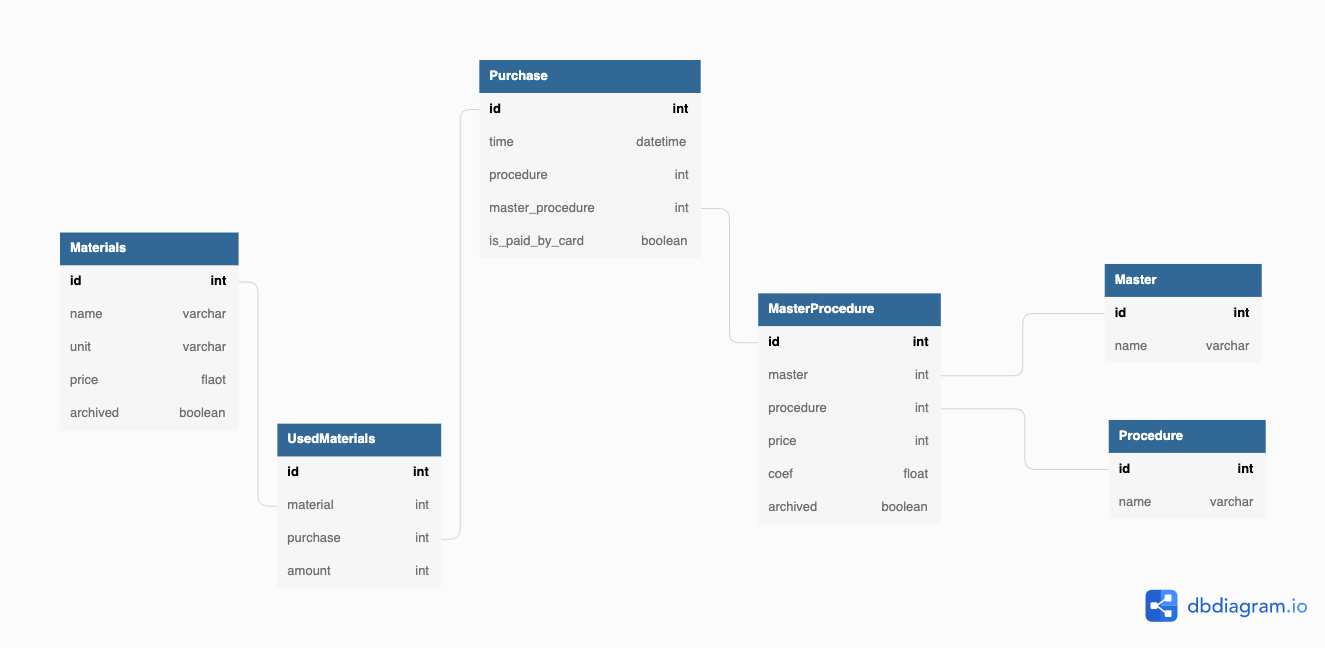
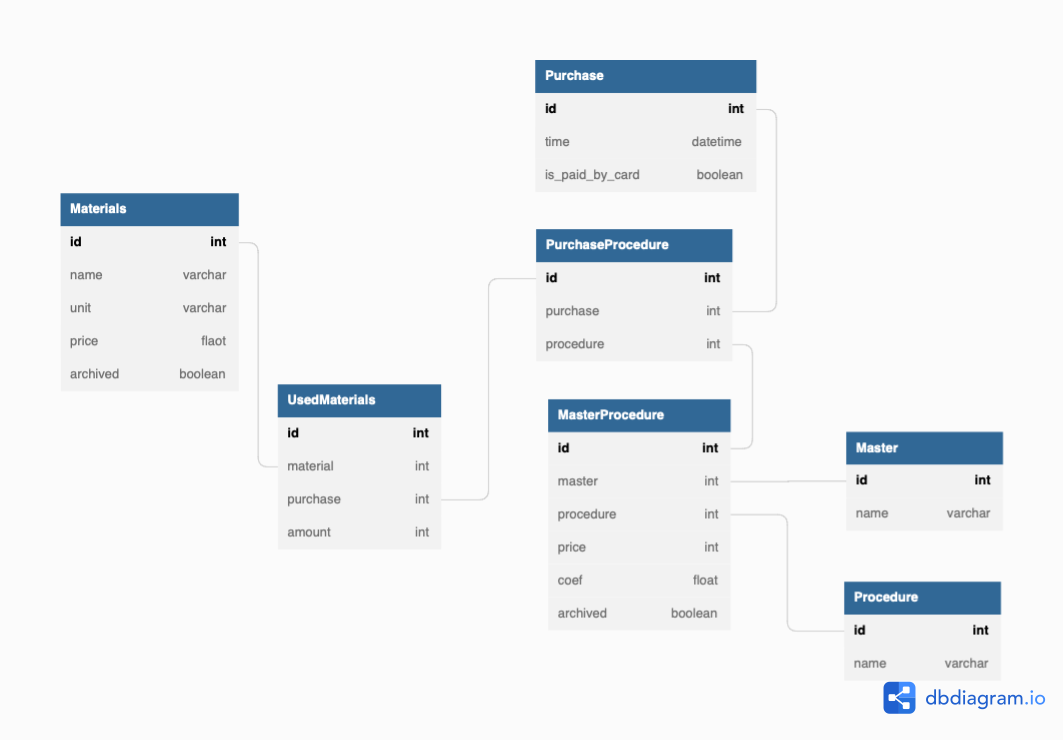
docs upd (#25)

diff --git a/docs/models.md b/docs/models.md
@@ -43,15 +43,20 @@ and the other 500 goes to the saloon. Flag archived shows if procedure is archiv
 Fields:
 - id
 - time
-- procedure
 - is_paid_by_card
 
 The `Purchase` model represents a customer visit to the saloon.
+
+## PurchaseProcedure
+Fields:
+- id
+- purchase
+- procedure (fk to MasterProcedure)
 
 ## UsedMaterials
 Fields:
 - id
 - material
-- purchase
+- procedure (fk to PurchaseProcedure)
 
 The `UsedMaterials` model represents a connection between purchase and materials used during the procedure.
